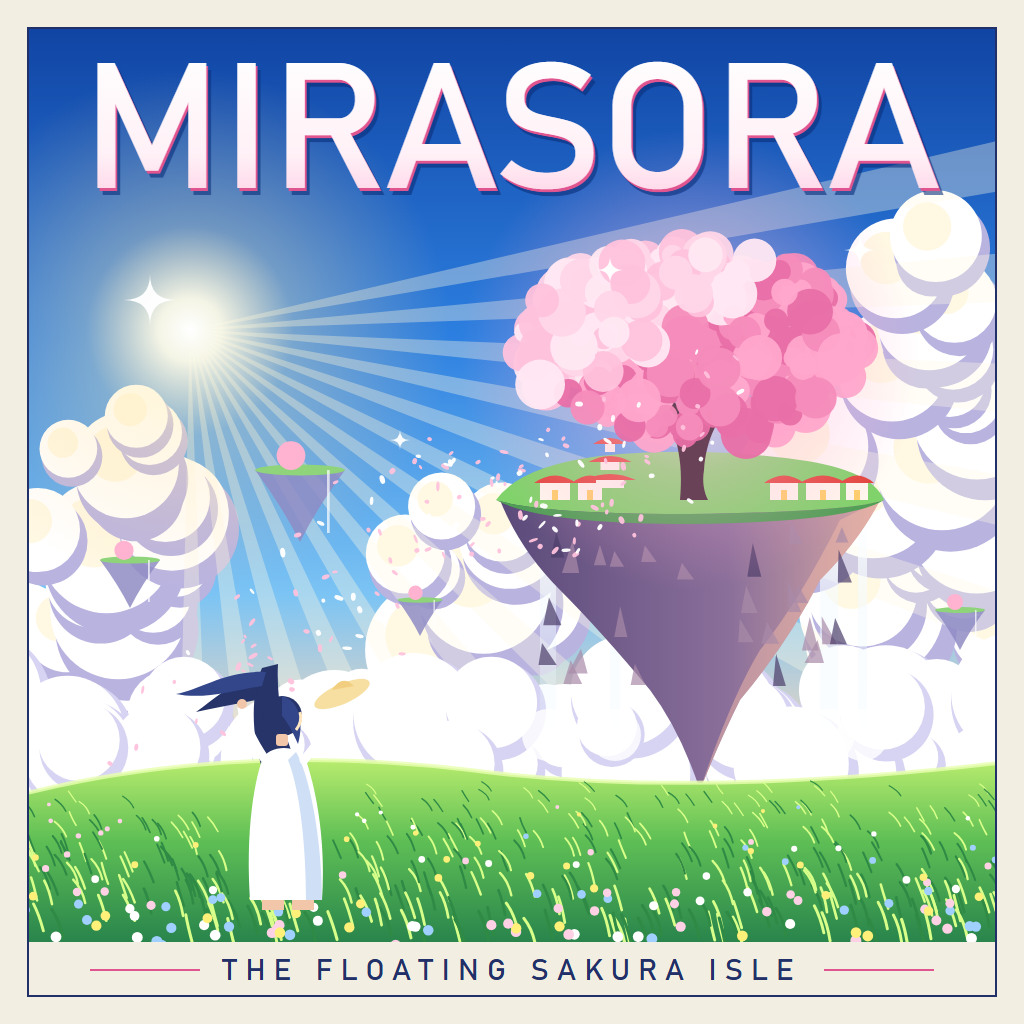
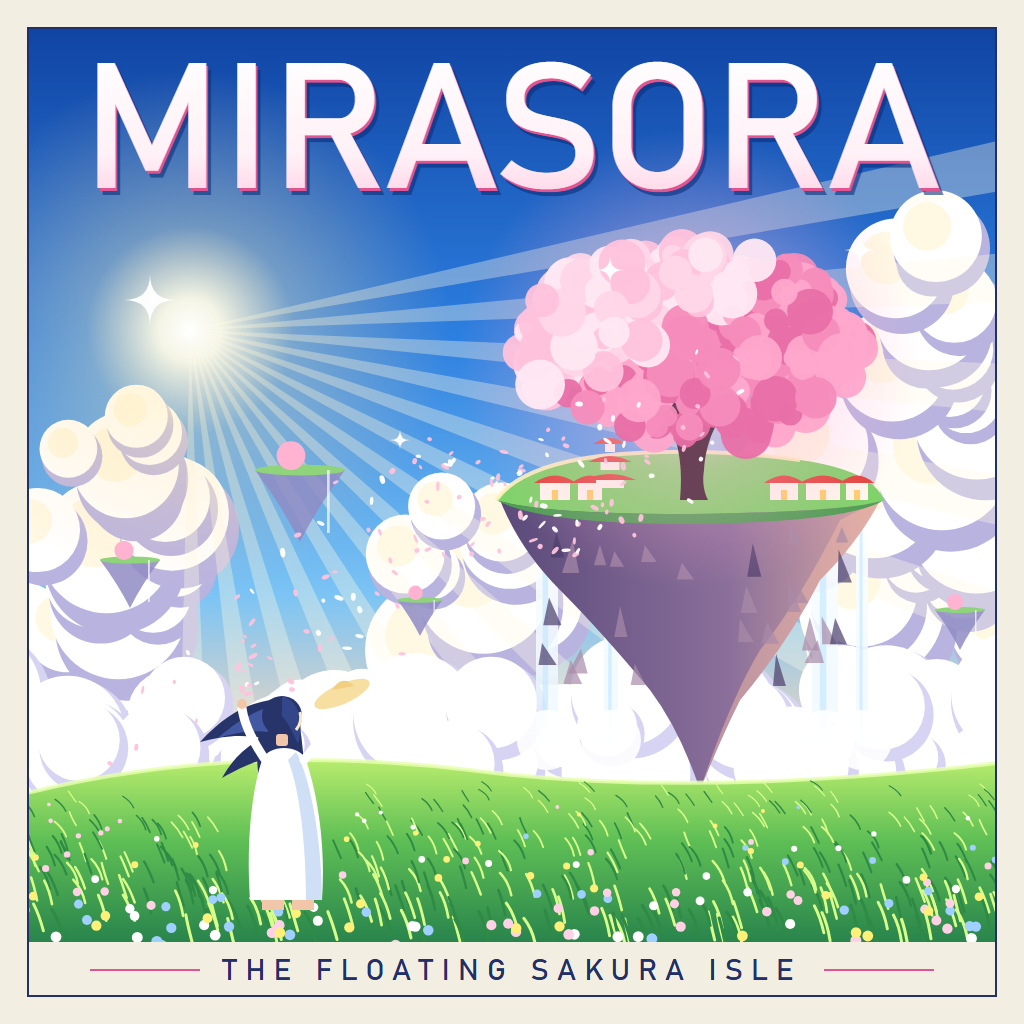
MIRASORA polish: visible waterfalls, windblown hair, lit isle rim

diff --git a/src/poster.html b/src/poster.html
@@ -43,8 +43,9 @@
     <stop offset="1" stop-color="#ffc6df"/>
   </linearGradient>
   <linearGradient id="fall" x1="0" y1="0" x2="0" y2="1">
-    <stop offset="0" stop-color="#ffffff" stop-opacity="0.95"/>
-    <stop offset="1" stop-color="#e6f6ff" stop-opacity="0.1"/>
+    <stop offset="0" stop-color="#ffffff" stop-opacity="1"/>
+    <stop offset="0.7" stop-color="#f0faff" stop-opacity="0.85"/>
+    <stop offset="1" stop-color="#e6f6ff" stop-opacity="0.3"/>
   </linearGradient>
   <filter id="blur6"><feGaussianBlur stdDeviation="6"/></filter>
   <clipPath id="frame"><rect x="28" y="28" width="968" height="914"/></clipPath>
@@ -70,6 +71,7 @@
   <g id="crags"></g>
   <path d="M496 500 Q520 466 600 456 Q700 446 800 460 Q872 470 884 500 Q850 512 690 514 Q540 514 496 500 Z" fill="#7fd36a"/>
   <path d="M496 500 Q540 514 690 514 Q850 512 884 500 Q850 522 690 524 Q540 524 496 500 Z" fill="#4f9f55"/>
+  <path d="M496 500 Q520 466 600 456 Q700 446 800 460" stroke="#fff3c0" stroke-width="4" fill="none" opacity="0.9"/>
   <g id="houses"></g>
   <!-- the great sakura -->
   <circle cx="690" cy="360" r="230" fill="url(#treeglow)"/>
@@ -85,9 +87,9 @@
 
   <!-- the girl on the hill, hat in hand, hair in the wind -->
   <g>
-    <path d="M262 768 C250 730 252 690 262 668 L278 664 C276 700 284 740 300 770 Z" fill="#26346a"/>
-    <path d="M262 676 C232 680 214 700 196 712 C214 708 236 704 256 700 Z" fill="#26346a"/>
-    <path d="M266 672 C226 670 200 690 176 694 C204 700 236 690 262 686 Z" fill="#33468a"/>
+    <path d="M262 792 C254 762 256 732 266 712 L298 712 C302 740 306 770 304 794 Z" fill="#26346a"/>
+    <path d="M270 700 C246 704 224 716 200 742 C222 736 240 734 262 738 C244 748 232 760 222 778 C246 764 264 758 280 756 Z" fill="#26346a"/>
+    <path d="M272 706 C252 712 236 722 218 738 C238 732 254 730 268 732 Z" fill="#4a62b0" opacity="0.8"/>
     <path d="M250 900 C246 840 252 790 262 760 C268 744 300 744 306 760 C316 790 326 840 322 900 Z" fill="#ffffff"/>
     <path d="M296 752 C310 776 322 840 322 900 L306 900 C306 846 300 790 288 760 Z" fill="#cfe0f6"/>
     <path d="M264 758 C252 740 244 724 242 708" stroke="#ffffff" stroke-width="9" stroke-linecap="round" fill="none"/>
@@ -168,9 +170,10 @@
   }
 
   // waterfalls pouring off the isle into the clouds
-  for (const [x, w] of [[540, 16], [610, 10], [820, 18], [858, 9]]) {
-    el('falls', 'rect', {x: x, y: 500, width: w, height: 240, fill: 'url(#fall)'});
-    el('falls', 'circle', {cx: x + w / 2, cy: 735, r: 26, fill: '#ffffff', opacity: 0.8});
+  for (const [x, w] of [[536, 22], [604, 14], [812, 26], [856, 12]]) {
+    el('falls', 'rect', {x: x, y: 498, width: w, height: 250, fill: 'url(#fall)'});
+    el('falls', 'rect', {x: x + w * 0.3, y: 498, width: w * 0.25, height: 230, fill: '#bfe6ff', opacity: 0.6});
+    el('falls', 'circle', {cx: x + w / 2, cy: 740, r: 30, fill: '#ffffff', opacity: 0.9});
   }
 
   // crags on the underside
